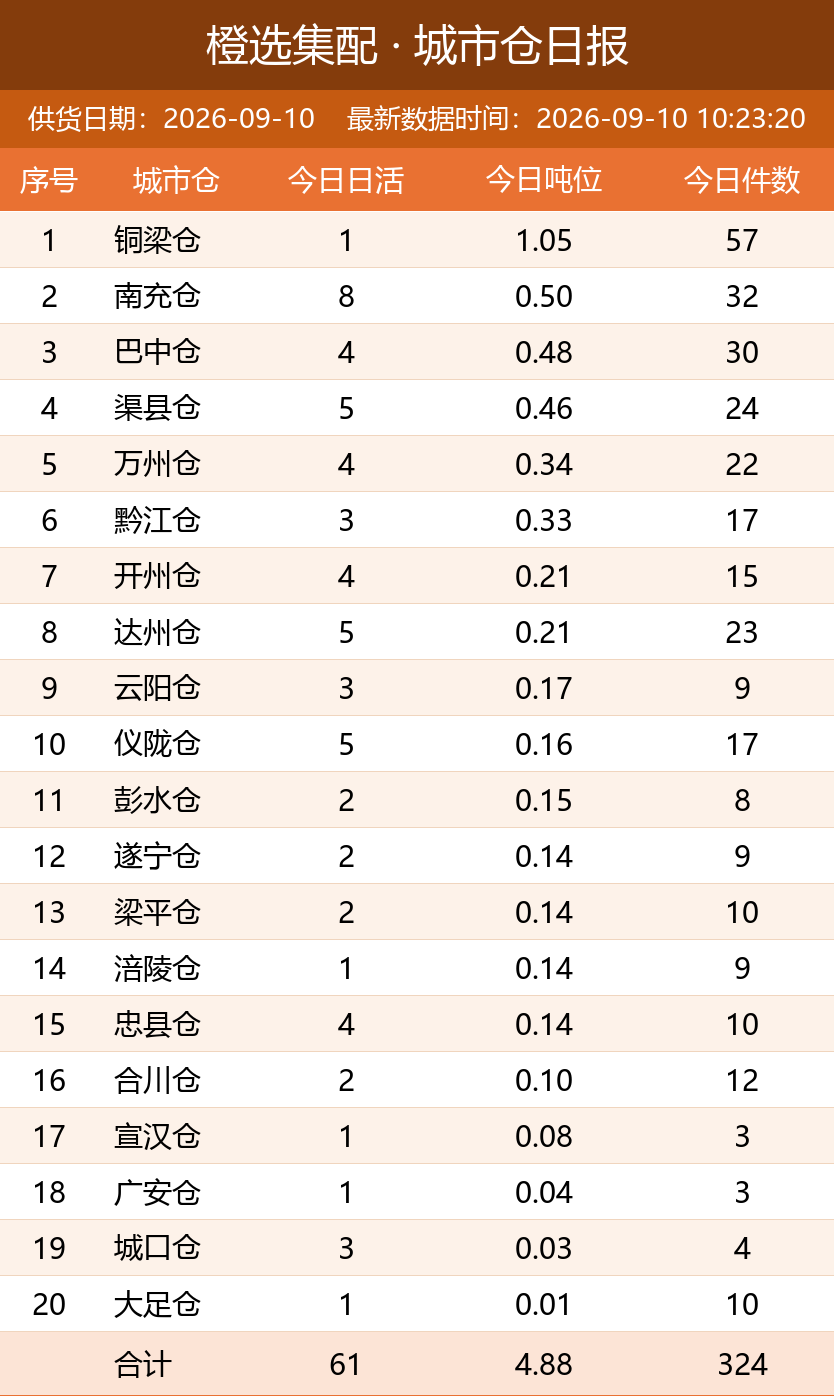
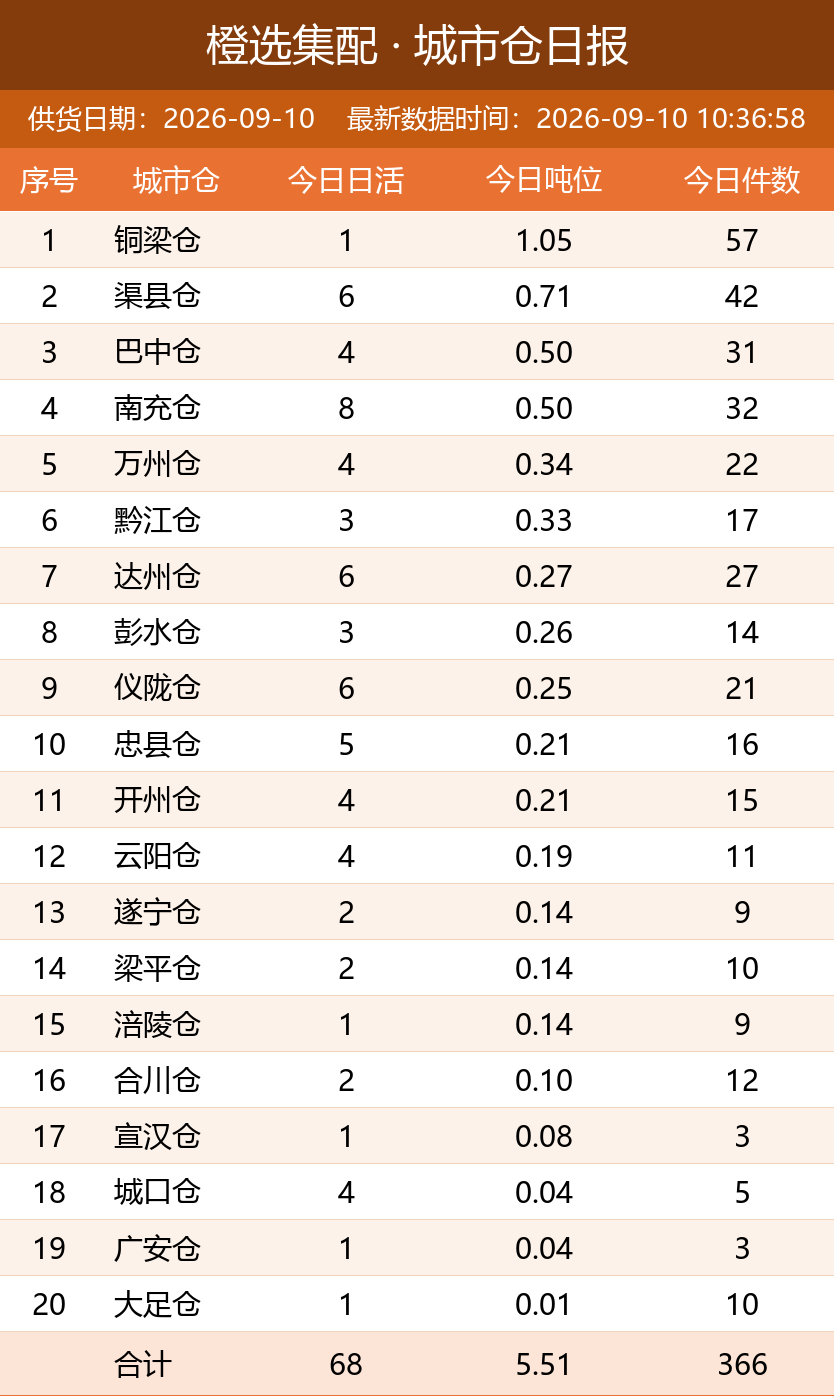
自动更新日报图片

diff --git a/index.html b/index.html
@@ -11,7 +11,7 @@ img { max-width: 100%; border: 1px solid #e5e5e5; margin-bottom: 24px; display: 
 </style>
 </head>
 <body>
-<h1>橙选集配日报图片（20260910_102322）</h1>
+<h1>橙选集配日报图片（20260910_103702）</h1>
 <img src="bd_latest.png" alt="BD 日报">
 <img src="wh_latest.png" alt="城市仓日报">
 <img src="zs_latest.png" alt="招商日报">
